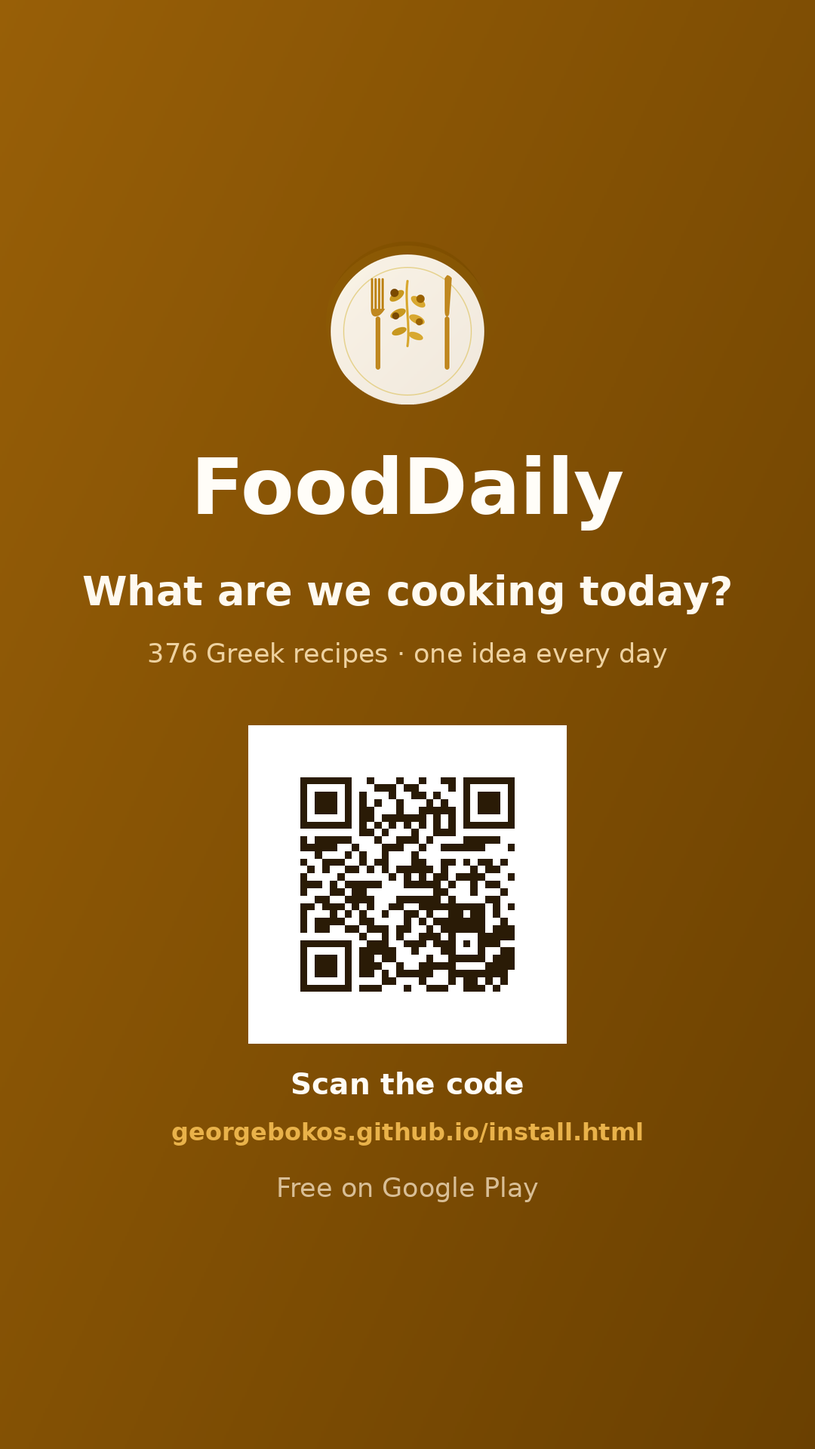
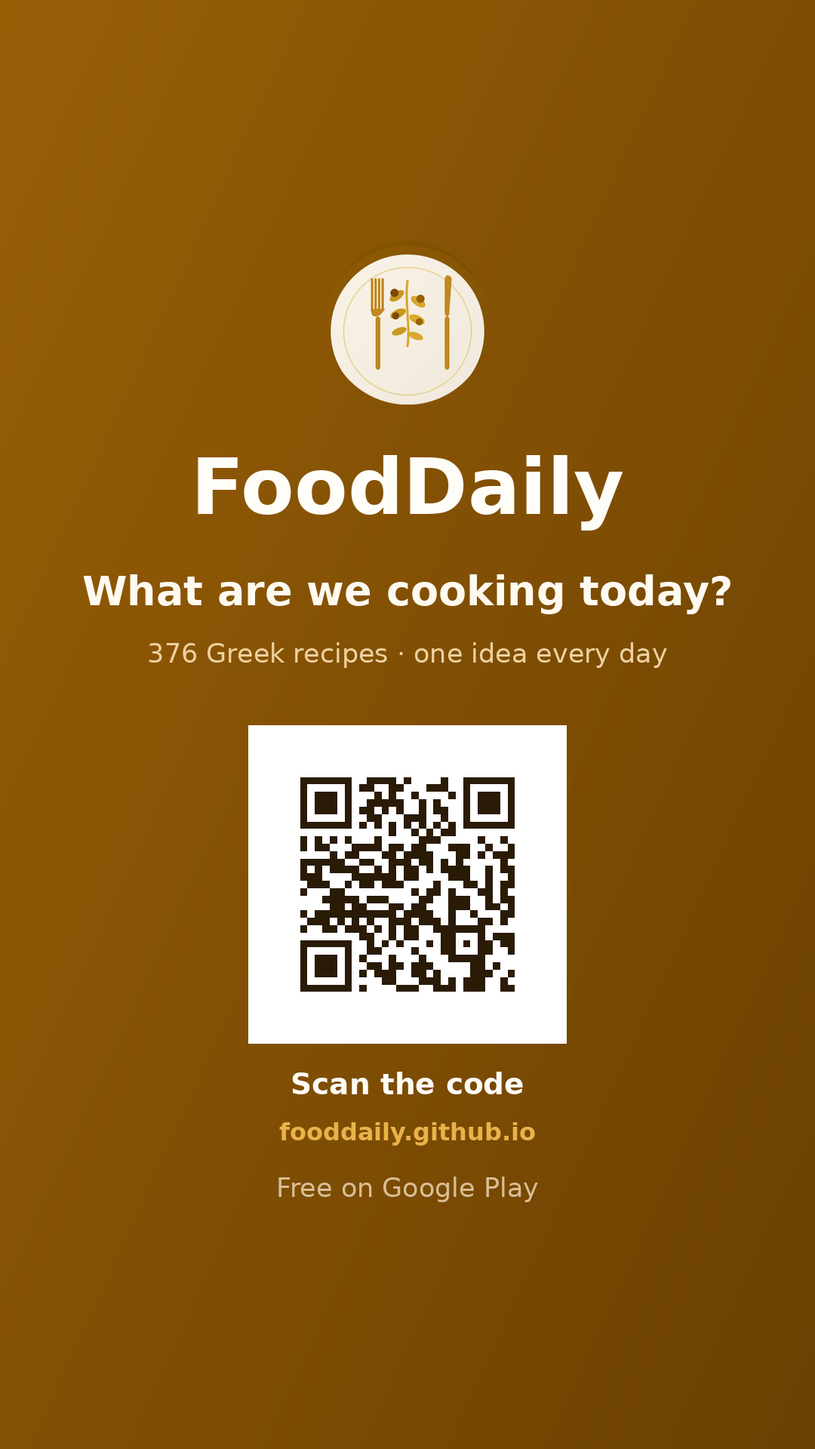
Νέα διεύθυνση fooddaily.github.io σε εφαρμογή, βίντεο, κάρτες και τεκμηρίωση
Claude-Session: https://claude.ai/code/session_01LFM8e599yzk86PVkNmpED4

diff --git a/index.html b/index.html
@@ -8492,7 +8492,7 @@ async function exitCookMode(completed){
 // ── ΚΑΡΤΑ ΚΟΙΝΟΠΟΙΗΣΗΣ ─────────────────────────────────────────
 // Γυμνό κείμενο δεν το κοιτάει κανείς. Μια εικόνα με το πιάτο, το κόστος ανά
 // μερίδα και τη διεύθυνση δουλεύει σαν διαφήμιση σε κάθε συνομιλία.
-const SHARE_URL='georgebokos.github.io/app';
+const SHARE_URL='fooddaily.github.io';
 function _wrapCanvas(ctx,text,maxW){
   const out=[];let cur='';
   for(const w of String(text).split(' ')){

diff --git a/ads/reel.py b/ads/reel.py
@@ -71,7 +71,7 @@ def build(rid, lang='el'):
          'more':'Δείτε τα αναλυτικά στην εφαρμογή FoodDaily' if el
                 else 'See the full method in the FoodDaily app',
          'get':'Σύνδεσμος στο προφίλ' if el else 'Link in bio',
-         'url':'georgebokos.github.io/app',
+         'url':'fooddaily.github.io',
          'free':'Δωρεάν στο Google Play' if el else 'Free on Google Play'}
 
     # Μικρές παραλλαγές, ώστε 30 βίντεο στη σειρά να μη μοιάζουν πανομοιότυπα.

diff --git a/store/share_card.py b/store/share_card.py
@@ -10,7 +10,7 @@ ROOT = os.path.dirname(os.path.dirname(os.path.abspath(__file__)))
 OUT  = os.path.join(ROOT, 'store')
 FB = '/usr/share/fonts/truetype/dejavu/DejaVuSans-Bold.ttf'
 FR = '/usr/share/fonts/truetype/dejavu/DejaVuSans.ttf'
-URL = 'georgebokos.github.io/install.html'
+URL = 'fooddaily.github.io'
 
 T = {'el': {'tag': 'Τι μαγειρεύουμε σήμερα;',
             'sub': '376 ελληνικές συνταγές · μία πρόταση κάθε μέρα',

diff --git a/ads/captions.py b/ads/captions.py
@@ -4,7 +4,7 @@
 import json, os, subprocess, sys
 
 ROOT = os.path.dirname(os.path.dirname(os.path.abspath(__file__)))
-LINK = 'georgebokos.github.io/app'
+LINK = 'fooddaily.github.io'
 
 BASE = ['#συνταγες','#ελληνικηκουζινα','#μαγειρικη','#φαγητο','#greekfood',
         '#σπιτικοφαγητο','#τιμαγειρευουμεσημερα','#fooddaily']

diff --git a/ads/reels/ΛΕΖΑΝΤΕΣ.md b/ads/reels/ΛΕΖΑΝΤΕΣ.md
@@ -17,7 +17,7 @@
 Τα υλικά και όλα τα βήματα βήμα-βήμα είναι στην εφαρμογή.
 Μαζί με άλλες 375 ελληνικές συνταγές — και μία πρόταση φαγητού κάθε μέρα.
 
-📲 georgebokos.github.io/app
+📲 fooddaily.github.io
 (σύνδεσμος και στο προφίλ)
 
 #συνταγες #ελληνικηκουζινα #μαγειρικη #φαγητο #greekfood #σπιτικοφαγητο #τιμαγειρευουμεσημερα #fooddaily #κρεας #κυριωςπιατο
@@ -38,7 +38,7 @@
 Τα υλικά και όλα τα βήματα βήμα-βήμα είναι στην εφαρμογή.
 Μαζί με άλλες 375 ελληνικές συνταγές — και μία πρόταση φαγητού κάθε μέρα.
 
-📲 georgebokos.github.io/app
+📲 fooddaily.github.io
 (σύνδεσμος και στο προφίλ)
 
 #συνταγες #ελληνικηκουζινα #μαγειρικη #φαγητο #greekfood #σπιτικοφαγητο #τιμαγειρευουμεσημερα #fooddaily #ζυμαρικα #μακαρονια
@@ -59,7 +59,7 @@
 Τα υλικά και όλα τα βήματα βήμα-βήμα είναι στην εφαρμογή.
 Μαζί με άλλες 375 ελληνικές συνταγές — και μία πρόταση φαγητού κάθε μέρα.
 
-📲 georgebokos.github.io/app
+📲 fooddaily.github.io
 (σύνδεσμος και στο προφίλ)
 
 #συνταγες #ελληνικηκουζινα #μαγειρικη #φαγητο #greekfood #σπιτικοφαγητο #τιμαγειρευουμεσημερα #fooddaily #λαχανικα #χορτοφαγικο
@@ -80,7 +80,7 @@
 Τα υλικά και όλα τα βήματα βήμα-βήμα είναι στην εφαρμογή.
 Μαζί με άλλες 375 ελληνικές συνταγές — και μία πρόταση φαγητού κάθε μέρα.
 
-📲 georgebokos.github.io/app
+📲 fooddaily.github.io
 (σύνδεσμος και στο προφίλ)
 
 #συνταγες #ελληνικηκουζινα #μαγειρικη #φαγητο #greekfood #σπιτικοφαγητο #τιμαγειρευουμεσημερα #fooddaily #κρεας #κυριωςπιατο
@@ -101,7 +101,7 @@
 Τα υλικά και όλα τα βήματα βήμα-βήμα είναι στην εφαρμογή.
 Μαζί με άλλες 375 ελληνικές συνταγές — και μία πρόταση φαγητού κάθε μέρα.
 
-📲 georgebokos.github.io/app
+📲 fooddaily.github.io
 (σύνδεσμος και στο προφίλ)
 
 #συνταγες #ελληνικηκουζινα #μαγειρικη #φαγητο #greekfood #σπιτικοφαγητο #τιμαγειρευουμεσημερα #fooddaily #κρεας #κυριωςπιατο
@@ -122,7 +122,7 @@
 Τα υλικά και όλα τα βήματα βήμα-βήμα είναι στην εφαρμογή.
 Μαζί με άλλες 375 ελληνικές συνταγές — και μία πρόταση φαγητού κάθε μέρα.
 
-📲 georgebokos.github.io/app
+📲 fooddaily.github.io
 (σύνδεσμος και στο προφίλ)
 
 #συνταγες #ελληνικηκουζινα #μαγειρικη #φαγητο #greekfood #σπιτικοφαγητο #τιμαγειρευουμεσημερα #fooddaily #κρεας #κυριωςπιατο
@@ -143,7 +143,7 @@
 Τα υλικά και όλα τα βήματα βήμα-βήμα είναι στην εφαρμογή.
 Μαζί με άλλες 375 ελληνικές συνταγές — και μία πρόταση φαγητού κάθε μέρα.
 
-📲 georgebokos.github.io/app
+📲 fooddaily.github.io
 (σύνδεσμος και στο προφίλ)
 
 #συνταγες #ελληνικηκουζινα #μαγειρικη #φαγητο #greekfood #σπιτικοφαγητο #τιμαγειρευουμεσημερα #fooddaily #κρεας #κυριωςπιατο
@@ -164,7 +164,7 @@
 Τα υλικά και όλα τα βήματα βήμα-βήμα είναι στην εφαρμογή.
 Μαζί με άλλες 375 ελληνικές συνταγές — και μία πρόταση φαγητού κάθε μέρα.
 
-📲 georgebokos.github.io/app
+📲 fooddaily.github.io
 (σύνδεσμος και στο προφίλ)
 
 #συνταγες #ελληνικηκουζινα #μαγειρικη #φαγητο #greekfood #σπιτικοφαγητο #τιμαγειρευουμεσημερα #fooddaily #οσπρια #νηστισιμο
@@ -185,7 +185,7 @@
 Τα υλικά και όλα τα βήματα βήμα-βήμα είναι στην εφαρμογή.
 Μαζί με άλλες 375 ελληνικές συνταγές — και μία πρόταση φαγητού κάθε μέρα.
 
-📲 georgebokos.github.io/app
+📲 fooddaily.github.io
 (σύνδεσμος και στο προφίλ)
 
 #συνταγες #ελληνικηκουζινα #μαγειρικη #φαγητο #greekfood #σπιτικοφαγητο #τιμαγειρευουμεσημερα #fooddaily #οσπρια #νηστισιμο
@@ -206,7 +206,7 @@
 Τα υλικά και όλα τα βήματα βήμα-βήμα είναι στην εφαρμογή.
 Μαζί με άλλες 375 ελληνικές συνταγές — και μία πρόταση φαγητού κάθε μέρα.
 
-📲 georgebokos.github.io/app
+📲 fooddaily.github.io
 (σύνδεσμος και στο προφίλ)
 
 #συνταγες #ελληνικηκουζινα #μαγειρικη #φαγητο #greekfood #σπιτικοφαγητο #τιμαγειρευουμεσημερα #fooddaily #πιτα #ζυμη
@@ -227,7 +227,7 @@
 Τα υλικά και όλα τα βήματα βήμα-βήμα είναι στην εφαρμογή.
 Μαζί με άλλες 375 ελληνικές συνταγές — και μία πρόταση φαγητού κάθε μέρα.
 
-📲 georgebokos.github.io/app
+📲 fooddaily.github.io
 (σύνδεσμος και στο προφίλ)
 
 #συνταγες #ελληνικηκουζινα #μαγειρικη #φαγητο #greekfood #σπιτικοφαγητο #τιμαγειρευουμεσημερα #fooddaily #πιτα #ζυμη
@@ -248,7 +248,7 @@
 Τα υλικά και όλα τα βήματα βήμα-βήμα είναι στην εφαρμογή.
 Μαζί με άλλες 375 ελληνικές συνταγές — και μία πρόταση φαγητού κάθε μέρα.
 
-📲 georgebokos.github.io/app
+📲 fooddaily.github.io
 (σύνδεσμος και στο προφίλ)
 
 #συνταγες #ελληνικηκουζινα #μαγειρικη #φαγητο #greekfood #σπιτικοφαγητο #τιμαγειρευουμεσημερα #fooddaily #κρεας #κυριωςπιατο
@@ -269,7 +269,7 @@
 Τα υλικά και όλα τα βήματα βήμα-βήμα είναι στην εφαρμογή.
 Μαζί με άλλες 375 ελληνικές συνταγές — και μία πρόταση φαγητού κάθε μέρα.
 
-📲 georgebokos.github.io/app
+📲 fooddaily.github.io
 (σύνδεσμος και στο προφίλ)
 
 #συνταγες #ελληνικηκουζινα #μαγειρικη #φαγητο #greekfood #σπιτικοφαγητο #τιμαγειρευουμεσημερα #fooddaily #θαλασσινα #ψαρι
@@ -290,7 +290,7 @@
 Τα υλικά και όλα τα βήματα βήμα-βήμα είναι στην εφαρμογή.
 Μαζί με άλλες 375 ελληνικές συνταγές — και μία πρόταση φαγητού κάθε μέρα.
 
-📲 georgebokos.github.io/app
+📲 fooddaily.github.io
 (σύνδεσμος και στο προφίλ)
 
 #συνταγες #ελληνικηκουζινα #μαγειρικη #φαγητο #greekfood #σπιτικοφαγητο #τιμαγειρευουμεσημερα #fooddaily #θαλασσινα #ψαρι
@@ -311,7 +311,7 @@
 Τα υλικά και όλα τα βήματα βήμα-βήμα είναι στην εφαρμογή.
 Μαζί με άλλες 375 ελληνικές συνταγές — και μία πρόταση φαγητού κάθε μέρα.
 
-📲 georgebokos.github.io/app
+📲 fooddaily.github.io
 (σύνδεσμος και στο προφίλ)
 
 #συνταγες #ελληνικηκουζινα #μαγειρικη #φαγητο #greekfood #σπιτικοφαγητο #τιμαγειρευουμεσημερα #fooddaily #ζυμαρικα #μακαρονια
@@ -332,7 +332,7 @@
 Τα υλικά και όλα τα βήματα βήμα-βήμα είναι στην εφαρμογή.
 Μαζί με άλλες 375 ελληνικές συνταγές — και μία πρόταση φαγητού κάθε μέρα.
 
-📲 georgebokos.github.io/app
+📲 fooddaily.github.io
 (σύνδεσμος και στο προφίλ)
 
 #συνταγες #ελληνικηκουζινα #μαγειρικη #φαγητο #greekfood #σπιτικοφαγητο #τιμαγειρευουμεσημερα #fooddaily #κρεας #κυριωςπιατο
@@ -353,7 +353,7 @@
 Τα υλικά και όλα τα βήματα βήμα-βήμα είναι στην εφαρμογή.
 Μαζί με άλλες 375 ελληνικές συνταγές — και μία πρόταση φαγητού κάθε μέρα.
 
-📲 georgebokos.github.io/app
+📲 fooddaily.github.io
 (σύνδεσμος και στο προφίλ)
 
 #συνταγες #ελληνικηκουζινα #μαγειρικη #φαγητο #greekfood #σπιτικοφαγητο #τιμαγειρευουμεσημερα #fooddaily #λαχανικα #χορτοφαγικο
@@ -374,7 +374,7 @@
 Τα υλικά και όλα τα βήματα βήμα-βήμα είναι στην εφαρμογή.
 Μαζί με άλλες 375 ελληνικές συνταγές — και μία πρόταση φαγητού κάθε μέρα.
 
-📲 georgebokos.github.io/app
+📲 fooddaily.github.io
 (σύνδεσμος και στο προφίλ)
 
 #συνταγες #ελληνικηκουζινα #μαγειρικη #φαγητο #greekfood #σπιτικοφαγητο #τιμαγειρευουμεσημερα #fooddaily #κρεας #κυριωςπιατο
@@ -395,7 +395,7 @@
 Τα υλικά και όλα τα βήματα βήμα-βήμα είναι στην εφαρμογή.
 Μαζί με άλλες 375 ελληνικές συνταγές — και μία πρόταση φαγητού κάθε μέρα.
 
-📲 georgebokos.github.io/app
+📲 fooddaily.github.io
 (σύνδεσμος και στο προφίλ)
 
 #συνταγες #ελληνικηκουζινα #μαγειρικη #φαγητο #greekfood #σπιτικοφαγητο #τιμαγειρευουμεσημερα #fooddaily #πιτα #ζυμη
@@ -416,7 +416,7 @@
 Τα υλικά και όλα τα βήματα βήμα-βήμα είναι στην εφαρμογή.
 Μαζί με άλλες 375 ελληνικές συνταγές — και μία πρόταση φαγητού κάθε μέρα.
 
-📲 georgebokos.github.io/app
+📲 fooddaily.github.io
 (σύνδεσμος και στο προφίλ)
 
 #συνταγες #ελληνικηκουζινα #μαγειρικη #φαγητο #greekfood #σπιτικοφαγητο #τιμαγειρευουμεσημερα #fooddaily #γλυκο #ζαχαροπλαστικη
@@ -437,7 +437,7 @@
 Τα υλικά και όλα τα βήματα βήμα-βήμα είναι στην εφαρμογή.
 Μαζί με άλλες 375 ελληνικές συνταγές — και μία πρόταση φαγητού κάθε μέρα.
 
-📲 georgebokos.github.io/app
+📲 fooddaily.github.io
 (σύνδεσμος και στο προφίλ)
 
 #συνταγες #ελληνικηκουζινα #μαγειρικη #φαγητο #greekfood #σπιτικοφαγητο #τιμαγειρευουμεσημερα #fooddaily #γλυκο #ζαχαροπλαστικη
@@ -458,7 +458,7 @@
 Τα υλικά και όλα τα βήματα βήμα-βήμα είναι στην εφαρμογή.
 Μαζί με άλλες 375 ελληνικές συνταγές — και μία πρόταση φαγητού κάθε μέρα.
 
-📲 georgebokos.github.io/app
+📲 fooddaily.github.io
 (σύνδεσμος και στο προφίλ)
 
 #συνταγες #ελληνικηκουζινα #μαγειρικη #φαγητο #greekfood #σπιτικοφαγητο #τιμαγειρευουμεσημερα #fooddaily #γλυκο #ζαχαροπλαστικη
@@ -479,7 +479,7 @@
 Τα υλικά και όλα τα βήματα βήμα-βήμα είναι στην εφαρμογή.
 Μαζί με άλλες 375 ελληνικές συνταγές — και μία πρόταση φαγητού κάθε μέρα.
 
-📲 georgebokos.github.io/app
+📲 fooddaily.github.io
 (σύνδεσμος και στο προφίλ)
 
 #συνταγες #ελληνικηκουζινα #μαγειρικη #φαγητο #greekfood #σπιτικοφαγητο #τιμαγειρευουμεσημερα #fooddaily #γλυκο #ζαχαροπλαστικη
@@ -500,7 +500,7 @@
 Τα υλικά και όλα τα βήματα βήμα-βήμα είναι στην εφαρμογή.
 Μαζί με άλλες 375 ελληνικές συνταγές — και μία πρόταση φαγητού κάθε μέρα.
 
-📲 georgebokos.github.io/app
+📲 fooddaily.github.io
 (σύνδεσμος και στο προφίλ)
 
 #συνταγες #ελληνικηκουζινα #μαγειρικη #φαγητο #greekfood #σπιτικοφαγητο #τιμαγειρευουμεσημερα #fooddaily #σαλατα
@@ -521,7 +521,7 @@
 Τα υλικά και όλα τα βήματα βήμα-βήμα είναι στην εφαρμογή.
 Μαζί με άλλες 375 ελληνικές συνταγές — και μία πρόταση φαγητού κάθε μέρα.
 
-📲 georgebokos.github.io/app
+📲 fooddaily.github.io
 (σύνδεσμος και στο προφίλ)
 
 #συνταγες #ελληνικηκουζινα #μαγειρικη #φαγητο #greekfood #σπιτικοφαγητο #τιμαγειρευουμεσημερα #fooddaily #σαλτσα
@@ -542,7 +542,7 @@
 Τα υλικά και όλα τα βήματα βήμα-βήμα είναι στην εφαρμογή.
 Μαζί με άλλες 375 ελληνικές συνταγές — και μία πρόταση φαγητού κάθε μέρα.
 
-📲 georgebokos.github.io/app
+📲 fooddaily.github.io
 (σύνδεσμος και στο προφίλ)
 
 #συνταγες #ελληνικηκουζινα #μαγειρικη #φαγητο #greekfood #σπιτικοφαγητο #τιμαγειρευουμεσημερα #fooddaily #λαχανικα #χορτοφαγικο
@@ -563,7 +563,7 @@
 Τα υλικά και όλα τα βήματα βήμα-βήμα είναι στην εφαρμογή.
 Μαζί με άλλες 375 ελληνικές συνταγές — και μία πρόταση φαγητού κάθε μέρα.
 
-📲 georgebokos.github.io/app
+📲 fooddaily.github.io
 (σύνδεσμος και στο προφίλ)
 
 #συνταγες #ελληνικηκουζινα #μαγειρικη #φαγητο #greekfood #σπιτικοφαγητο #τιμαγειρευουμεσημερα #fooddaily #κρεας #κυριωςπιατο
@@ -584,7 +584,7 @@
 Τα υλικά και όλα τα βήματα βήμα-βήμα είναι στην εφαρμογή.
 Μαζί με άλλες 375 ελληνικές συνταγές — και μία πρόταση φαγητού κάθε μέρα.
 
-📲 georgebokos.github.io/app
+📲 fooddaily.github.io
 (σύνδεσμος και στο προφίλ)
 
 #συνταγες #ελληνικηκουζινα #μαγειρικη #φαγητο #greekfood #σπιτικοφαγητο #τιμαγειρευουμεσημερα #fooddaily #κρεας #κυριωςπιατο
@@ -605,7 +605,7 @@
 Τα υλικά και όλα τα βήματα βήμα-βήμα είναι στην εφαρμογή.
 Μαζί με άλλες 375 ελληνικές συνταγές — και μία πρόταση φαγητού κάθε μέρα.
 
-📲 georgebokos.github.io/app
+📲 fooddaily.github.io
 (σύνδεσμος και στο προφίλ)
 
 #συνταγες #ελληνικηκουζινα #μαγειρικη #φαγητο #greekfood #σπιτικοφαγητο #τιμαγειρευουμεσημερα #fooddaily #κρεας #κυριωςπιατο
@@ -626,7 +626,7 @@
 Τα υλικά και όλα τα βήματα βήμα-βήμα είναι στην εφαρμογή.
 Μαζί με άλλες 375 ελληνικές συνταγές — και μία πρόταση φαγητού κάθε μέρα.
 
-📲 georgebokos.github.io/app
+📲 fooddaily.github.io
 (σύνδεσμος και στο προφίλ)
 
 #συνταγες #ελληνικηκουζινα #μαγειρικη #φαγητο #greekfood #σπιτικοφαγητο #τιμαγειρευουμεσημερα #fooddaily #λαχανικα #χορτοφαγικο

diff --git a/ads/ORGANIC.md b/ads/ORGANIC.md
@@ -108,7 +108,7 @@ python3 ads/captions.py moussaka     # λεζάντα και hashtags
 
 ### Το κόλπο με τα Stories
 Ανέβασε το ίδιο Reel και ως **Story**, και βάλε **αυτοκόλλητο συνδέσμου** με το
-`georgebokos.github.io/install.html`. Εκεί ο θεατής πατάει **πάνω στο βίντεο** και
+`fooddaily.github.io`. Εκεί ο θεατής πατάει **πάνω στο βίντεο** και
 ανοίγει η σελίδα εγκατάστασης. Αυτό είναι πραγματικό ενεργό κουμπί, χωρίς πληρωμή.
 
 ## Με πληρωμή

diff --git a/ads/reels/QUEUE.md b/ads/reels/QUEUE.md
@@ -41,7 +41,7 @@
 
 ## Πού μπαίνει ο σύνδεσμος
 
-`georgebokos.github.io/app`
+`fooddaily.github.io`
 
 | Πλατφόρμα | Σημείο που πατιέται |
 |---|---|
